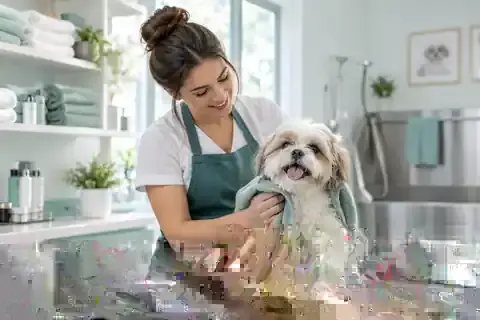
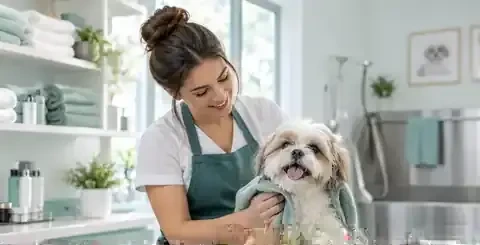
Crop corrupted pixels from service photos

diff --git a/src/styles.css b/src/styles.css
@@ -432,8 +432,3 @@ button:focus-visible, a:focus-visible, input:focus-visible, textarea:focus-visib
 }
 
 
-/* Hide compression artifacts near the lower edge of two generated service photos. */
-.services-grid > *:nth-child(5) .service-image,
-.services-grid > *:nth-child(8) .service-image {
-  object-position: center 12%;
-}
